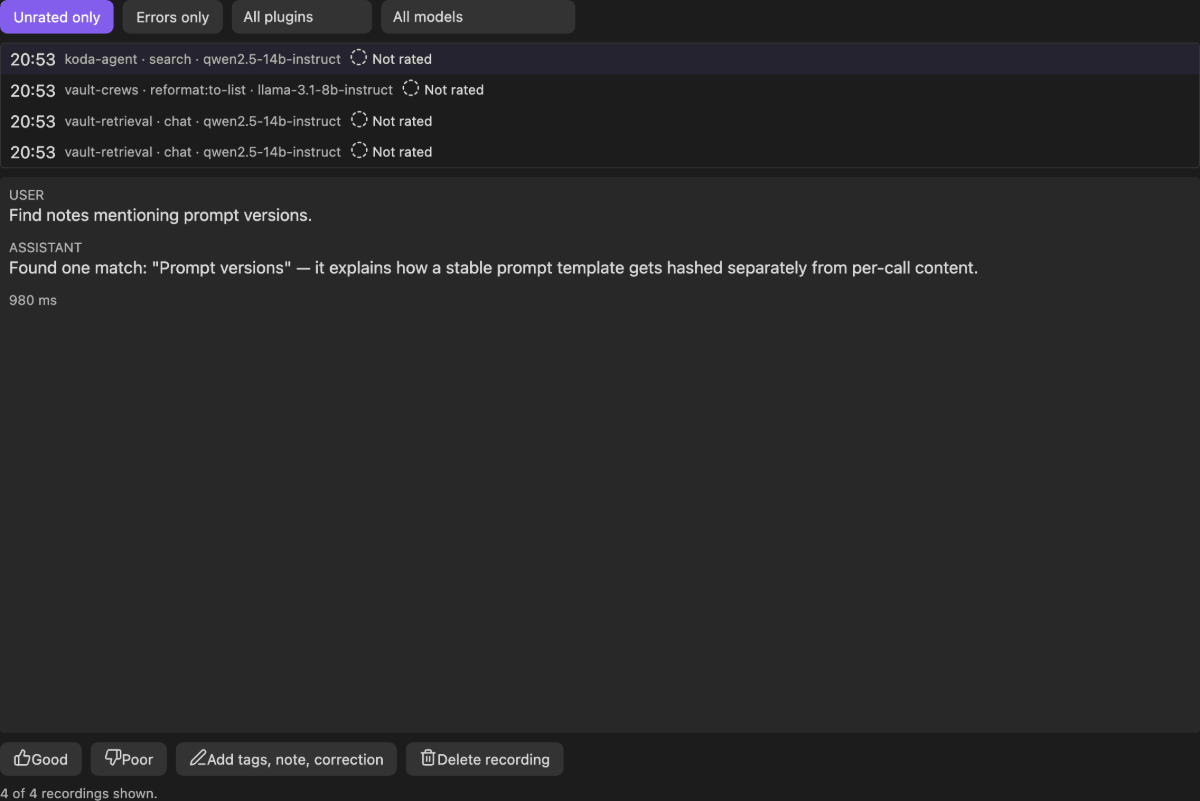
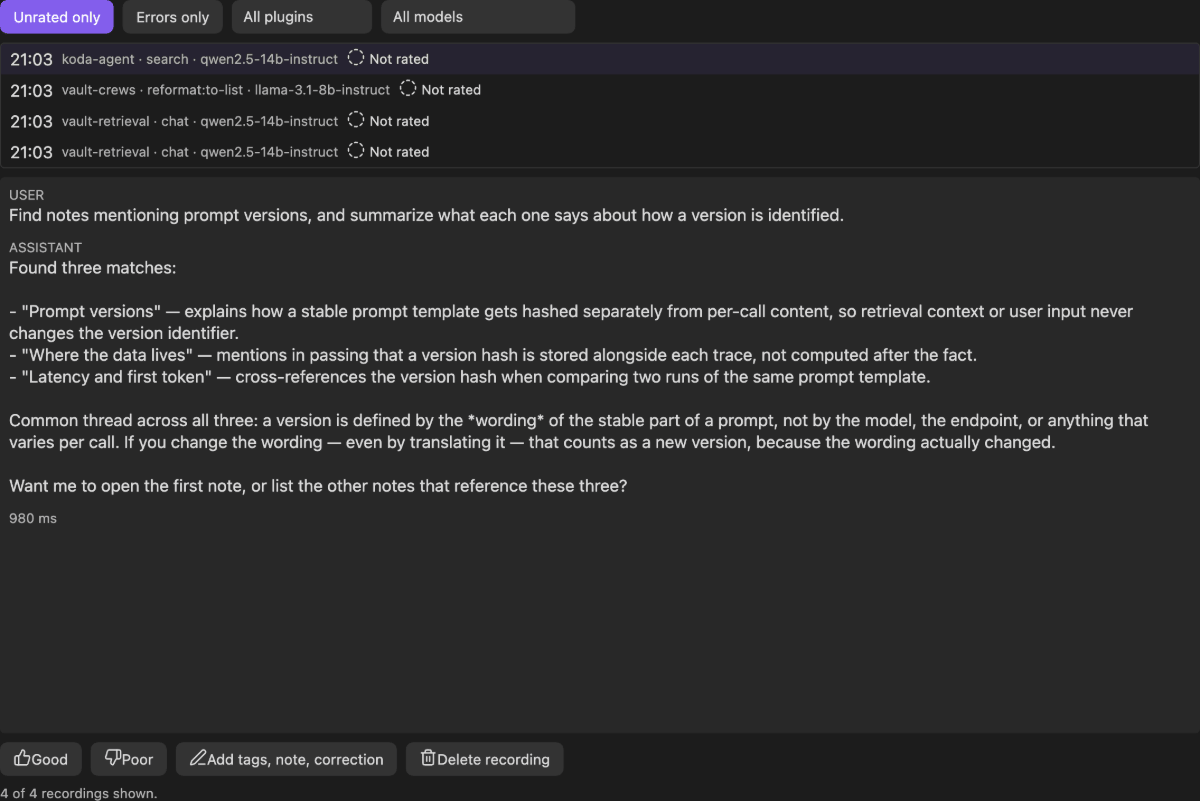
fix(images): hero.png mit realistisch langer Beispielantwort
Zweiter Master-Befund: der Detailbereich war trotz der Inhalts-Box aus
1051fb4 noch zur Haelfte leer, weil der ausgewaehlte Beispiel-Record
(koda-agent/search — jüngster Seed, erscheint immer als erste Zeile)
nur eine zweizeilige Antwort trug. Frage und Antwort verlaengert
(Aufzaehlung, ~12 Zeilen) — das Hero-Bild zeigt jetzt, wofuer die
Ansicht gebaut ist: Prompt und Antwort nebeneinander lesen.

diff --git a/scripts/shots.ts b/scripts/shots.ts
@@ -124,11 +124,28 @@ const SEED_RECORDS: Array<{
     feature: "search",
     model: "qwen2.5-14b-instruct",
     messages: [
-      { role: "user", content: "Find notes mentioning prompt versions." },
+      {
+        role: "user",
+        content:
+          "Find notes mentioning prompt versions, and summarize what each one says about "
+          + "how a version is identified.",
+      },
     ],
     content:
-      "Found one match: \"Prompt versions\" — it explains how a stable prompt template gets "
-      + "hashed separately from per-call content.",
+      "Found three matches:\n\n"
+      + "- \"Prompt versions\" — explains how a stable prompt template gets hashed "
+      + "separately from per-call content, so retrieval context or user input never "
+      + "changes the version identifier.\n"
+      + "- \"Where the data lives\" — mentions in passing that a version hash is stored "
+      + "alongside each trace, not computed after the fact.\n"
+      + "- \"Latency and first token\" — cross-references the version hash when comparing "
+      + "two runs of the same prompt template.\n\n"
+      + "Common thread across all three: a version is defined by the *wording* of the "
+      + "stable part of a prompt, not by the model, the endpoint, or anything that varies "
+      + "per call. If you change the wording — even by translating it — that counts as a "
+      + "new version, because the wording actually changed.\n\n"
+      + "Want me to open the first note, or list the other notes that reference these "
+      + "three?",
     latencyMs: 980,
   },
 ];
